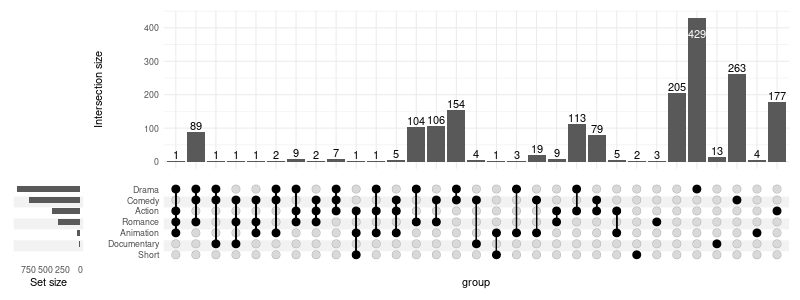
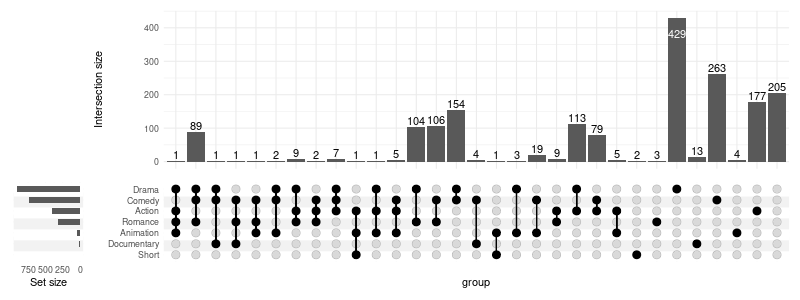
Built site for ComplexUpset: 0.7.1@

diff --git a/articles/Examples_Python.html b/articles/Examples_Python.html
@@ -1387,7 +1387,7 @@ mpaa   Bartlett test of homogeneity of variances           NA</code></pre>
 <span id="cb26-10"><a href="#cb26-10" aria-hidden="true"></a>    <span class="dt">width_ratio=</span><span class="fl">0.1</span></span>
 <span id="cb26-11"><a href="#cb26-11" aria-hidden="true"></a>)</span></code></pre></div>
 <p><img src="Examples_Python_files/Examples_Python_49_0.png"></p>
-<p>The colors can be changed:</p>
+<p>The colors can be changed, and additional annotations added:</p>
 <div class="sourceCode" id="cb27"><pre class="sourceCode r"><code class="sourceCode r"><span id="cb27-1"><a href="#cb27-1" aria-hidden="true"></a><span class="op">%%</span>R <span class="op">-</span>w <span class="dv">800</span> <span class="op">-</span>h <span class="dv">300</span></span>
 <span id="cb27-2"><a href="#cb27-2" aria-hidden="true"></a></span>
 <span id="cb27-3"><a href="#cb27-3" aria-hidden="true"></a><span class="kw">upset</span>(</span>
@@ -1399,10 +1399,16 @@ mpaa   Bartlett test of homogeneity of variances           NA</code></pre>
 <span id="cb27-9"><a href="#cb27-9" aria-hidden="true"></a>                <span class="dt">on_background=</span><span class="st">'brown'</span>, <span class="dt">on_bar=</span><span class="st">'yellow'</span></span>
 <span id="cb27-10"><a href="#cb27-10" aria-hidden="true"></a>            )</span>
 <span id="cb27-11"><a href="#cb27-11" aria-hidden="true"></a>        )</span>
-<span id="cb27-12"><a href="#cb27-12" aria-hidden="true"></a>    ),</span>
-<span id="cb27-13"><a href="#cb27-13" aria-hidden="true"></a>    <span class="dt">min_size=</span><span class="dv">10</span>,</span>
-<span id="cb27-14"><a href="#cb27-14" aria-hidden="true"></a>    <span class="dt">width_ratio=</span><span class="fl">0.1</span></span>
-<span id="cb27-15"><a href="#cb27-15" aria-hidden="true"></a>)</span></code></pre></div>
+<span id="cb27-12"><a href="#cb27-12" aria-hidden="true"></a>        <span class="op">+</span><span class="st"> </span><span class="kw">annotate</span>(</span>
+<span id="cb27-13"><a href="#cb27-13" aria-hidden="true"></a>            <span class="dt">geom=</span><span class="st">'text'</span>, <span class="dt">x=</span><span class="ot">Inf</span>, <span class="dt">y=</span><span class="ot">Inf</span>,</span>
+<span id="cb27-14"><a href="#cb27-14" aria-hidden="true"></a>            <span class="dt">label=</span><span class="kw">paste</span>(<span class="st">'Total:'</span>, <span class="kw">nrow</span>(movies)),</span>
+<span id="cb27-15"><a href="#cb27-15" aria-hidden="true"></a>            <span class="dt">vjust=</span><span class="dv">1</span>, <span class="dt">hjust=</span><span class="dv">1</span></span>
+<span id="cb27-16"><a href="#cb27-16" aria-hidden="true"></a>        )</span>
+<span id="cb27-17"><a href="#cb27-17" aria-hidden="true"></a>        <span class="op">+</span><span class="st"> </span><span class="kw">ylab</span>(<span class="st">'Intersection size'</span>)</span>
+<span id="cb27-18"><a href="#cb27-18" aria-hidden="true"></a>    ),</span>
+<span id="cb27-19"><a href="#cb27-19" aria-hidden="true"></a>    <span class="dt">min_size=</span><span class="dv">10</span>,</span>
+<span id="cb27-20"><a href="#cb27-20" aria-hidden="true"></a>    <span class="dt">width_ratio=</span><span class="fl">0.1</span></span>
+<span id="cb27-21"><a href="#cb27-21" aria-hidden="true"></a>)</span></code></pre></div>
 <p><img src="Examples_Python_files/Examples_Python_51_0.png"></p>
 <p>Any parameter supported by <code>geom_text</code> can be passed in <code>text</code> list:</p>
 <div class="sourceCode" id="cb28"><pre class="sourceCode r"><code class="sourceCode r"><span id="cb28-1"><a href="#cb28-1" aria-hidden="true"></a><span class="op">%%</span>R <span class="op">-</span>w <span class="dv">800</span> <span class="op">-</span>h <span class="dv">300</span></span>
@@ -2095,6 +2101,24 @@ mpaa   Bartlett test of homogeneity of variances           NA</code></pre>
 <span id="cb71-19"><a href="#cb71-19" aria-hidden="true"></a></span>
 <span id="cb71-20"><a href="#cb71-20" aria-hidden="true"></a>(u1 <span class="op">|</span><span class="st"> </span>u2) <span class="op">+</span><span class="st"> </span><span class="kw">plot_layout</span>(<span class="dt">guides=</span><span class="st">'collect'</span>)</span></code></pre></div>
 <p><img src="Examples_Python_files/Examples_Python_158_0.png"></p>
+</div>
+<div id="change-height-of-the-annotations" class="section level3">
+<h3 class="hasAnchor">
+<a href="#change-height-of-the-annotations" class="anchor"></a>11.3 Change height of the annotations</h3>
+<div class="sourceCode" id="cb72"><pre class="sourceCode r"><code class="sourceCode r"><span id="cb72-1"><a href="#cb72-1" aria-hidden="true"></a><span class="op">%%</span>R <span class="op">-</span>w <span class="dv">800</span> <span class="op">-</span>h <span class="dv">350</span></span>
+<span id="cb72-2"><a href="#cb72-2" aria-hidden="true"></a><span class="kw">upset</span>(</span>
+<span id="cb72-3"><a href="#cb72-3" aria-hidden="true"></a>    movies, genres, <span class="dt">name=</span><span class="st">'genre'</span>, <span class="dt">width_ratio=</span><span class="fl">0.1</span>, <span class="dt">min_size=</span><span class="dv">100</span>,</span>
+<span id="cb72-4"><a href="#cb72-4" aria-hidden="true"></a>    <span class="dt">annotations =</span><span class="kw">list</span>(</span>
+<span id="cb72-5"><a href="#cb72-5" aria-hidden="true"></a>        <span class="st">'MPAA Raiting'</span>=<span class="kw">list</span>(</span>
+<span id="cb72-6"><a href="#cb72-6" aria-hidden="true"></a>            <span class="dt">aes=</span><span class="kw">aes</span>(<span class="dt">x=</span>intersection, <span class="dt">fill=</span>mpaa),</span>
+<span id="cb72-7"><a href="#cb72-7" aria-hidden="true"></a>            <span class="dt">geom=</span><span class="kw">list</span>(</span>
+<span id="cb72-8"><a href="#cb72-8" aria-hidden="true"></a>                <span class="kw">geom_bar</span>(<span class="dt">stat=</span><span class="st">'count'</span>, <span class="dt">position=</span><span class="st">'fill'</span>),</span>
+<span id="cb72-9"><a href="#cb72-9" aria-hidden="true"></a>                <span class="kw">scale_y_continuous</span>(<span class="dt">labels=</span>scales<span class="op">::</span><span class="kw">percent_format</span>())</span>
+<span id="cb72-10"><a href="#cb72-10" aria-hidden="true"></a>            )</span>
+<span id="cb72-11"><a href="#cb72-11" aria-hidden="true"></a>        )</span>
+<span id="cb72-12"><a href="#cb72-12" aria-hidden="true"></a>    )</span>
+<span id="cb72-13"><a href="#cb72-13" aria-hidden="true"></a>) <span class="op">+</span><span class="st"> </span>patchwork<span class="op">::</span><span class="kw">plot_layout</span>(<span class="dt">heights=</span><span class="kw">c</span>(<span class="fl">0.5</span>, <span class="dv">1</span>, <span class="fl">0.5</span>))</span></code></pre></div>
+<p><img src="Examples_Python_files/Examples_Python_160_0.png"></p>
 </div>
 </div>
   </div>

diff --git a/articles/Examples_R.html b/articles/Examples_R.html
@@ -1601,7 +1601,7 @@ NA
     width_ratio<span class="op">=</span><span class="fl">0.1</span>
 <span class="op">)</span></code></pre></div>
 <p><img src="Examples_R_files/Examples_R_42_0.png"></p>
-<p>The colors can be changed:</p>
+<p>The colors can be changed, and additional annotations added:</p>
 <div class="sourceCode" id="cb24"><pre class="downlit sourceCode r">
 <code class="sourceCode R"><span class="fu">set_size</span><span class="op">(</span><span class="fl">8</span>, <span class="fl">3</span><span class="op">)</span>
 
@@ -1614,6 +1614,12 @@ NA
                 on_background<span class="op">=</span><span class="st">'brown'</span>, on_bar<span class="op">=</span><span class="st">'yellow'</span>
             <span class="op">)</span>
         <span class="op">)</span>
+        <span class="op">+</span> <span class="fu"><a href="https://ggplot2.tidyverse.org/reference/annotate.html">annotate</a></span><span class="op">(</span>
+            geom<span class="op">=</span><span class="st">'text'</span>, x<span class="op">=</span><span class="cn">Inf</span>, y<span class="op">=</span><span class="cn">Inf</span>,
+            label<span class="op">=</span><span class="fu"><a href="https://rdrr.io/r/base/paste.html">paste</a></span><span class="op">(</span><span class="st">'Total:'</span>, <span class="fu"><a href="https://rdrr.io/r/base/nrow.html">nrow</a></span><span class="op">(</span><span class="va">movies</span><span class="op">)</span><span class="op">)</span>,
+            vjust<span class="op">=</span><span class="fl">1</span>, hjust<span class="op">=</span><span class="fl">1</span>
+        <span class="op">)</span>
+        <span class="op">+</span> <span class="fu"><a href="https://ggplot2.tidyverse.org/reference/labs.html">ylab</a></span><span class="op">(</span><span class="st">'Intersection size'</span><span class="op">)</span>
     <span class="op">)</span>,
     min_size<span class="op">=</span><span class="fl">10</span>,
     width_ratio<span class="op">=</span><span class="fl">0.1</span>
@@ -2398,6 +2404,25 @@ NA
 
 <span class="op">(</span><span class="va">u1</span> <span class="op">|</span> <span class="va">u2</span><span class="op">)</span> <span class="op">+</span> <span class="fu"><a href="https://patchwork.data-imaginist.com/reference/plot_layout.html">plot_layout</a></span><span class="op">(</span>guides<span class="op">=</span><span class="st">'collect'</span><span class="op">)</span></code></pre></div>
 <p><img src="Examples_R_files/Examples_R_151_0.png"></p>
+</div>
+<div id="change-height-of-the-annotations" class="section level3">
+<h3 class="hasAnchor">
+<a href="#change-height-of-the-annotations" class="anchor"></a>11.3 Change height of the annotations</h3>
+<div class="sourceCode" id="cb69"><pre class="downlit sourceCode r">
+<code class="sourceCode R"><span class="fu">set_size</span><span class="op">(</span><span class="fl">8</span>, <span class="fl">3.5</span><span class="op">)</span>
+<span class="fu"><a href="../reference/upset.html">upset</a></span><span class="op">(</span>
+    <span class="va">movies</span>, <span class="va">genres</span>, name<span class="op">=</span><span class="st">'genre'</span>, width_ratio<span class="op">=</span><span class="fl">0.1</span>, min_size<span class="op">=</span><span class="fl">100</span>,
+    annotations <span class="op">=</span><span class="fu"><a href="https://rdrr.io/r/base/list.html">list</a></span><span class="op">(</span>
+        <span class="st">'MPAA Raiting'</span><span class="op">=</span><span class="fu"><a href="https://rdrr.io/r/base/list.html">list</a></span><span class="op">(</span>
+            aes<span class="op">=</span><span class="fu"><a href="https://ggplot2.tidyverse.org/reference/aes.html">aes</a></span><span class="op">(</span>x<span class="op">=</span><span class="va">intersection</span>, fill<span class="op">=</span><span class="va">mpaa</span><span class="op">)</span>,
+            geom<span class="op">=</span><span class="fu"><a href="https://rdrr.io/r/base/list.html">list</a></span><span class="op">(</span>
+                <span class="fu"><a href="https://ggplot2.tidyverse.org/reference/geom_bar.html">geom_bar</a></span><span class="op">(</span>stat<span class="op">=</span><span class="st">'count'</span>, position<span class="op">=</span><span class="st">'fill'</span><span class="op">)</span>,
+                <span class="fu"><a href="https://ggplot2.tidyverse.org/reference/scale_continuous.html">scale_y_continuous</a></span><span class="op">(</span>labels<span class="op">=</span><span class="fu">scales</span><span class="fu">::</span><span class="fu"><a href="https://scales.r-lib.org//reference/label_percent.html">percent_format</a></span><span class="op">(</span><span class="op">)</span><span class="op">)</span>
+            <span class="op">)</span>
+        <span class="op">)</span>
+    <span class="op">)</span>
+<span class="op">)</span> <span class="op">+</span> <span class="fu">patchwork</span><span class="fu">::</span><span class="fu"><a href="https://patchwork.data-imaginist.com/reference/plot_layout.html">plot_layout</a></span><span class="op">(</span>heights<span class="op">=</span><span class="fu"><a href="https://rdrr.io/r/base/c.html">c</a></span><span class="op">(</span><span class="fl">0.5</span>, <span class="fl">1</span>, <span class="fl">0.5</span><span class="op">)</span><span class="op">)</span></code></pre></div>
+<p><img src="Examples_R_files/Examples_R_153_0.png"></p>
 </div>
 </div>
   </div>
